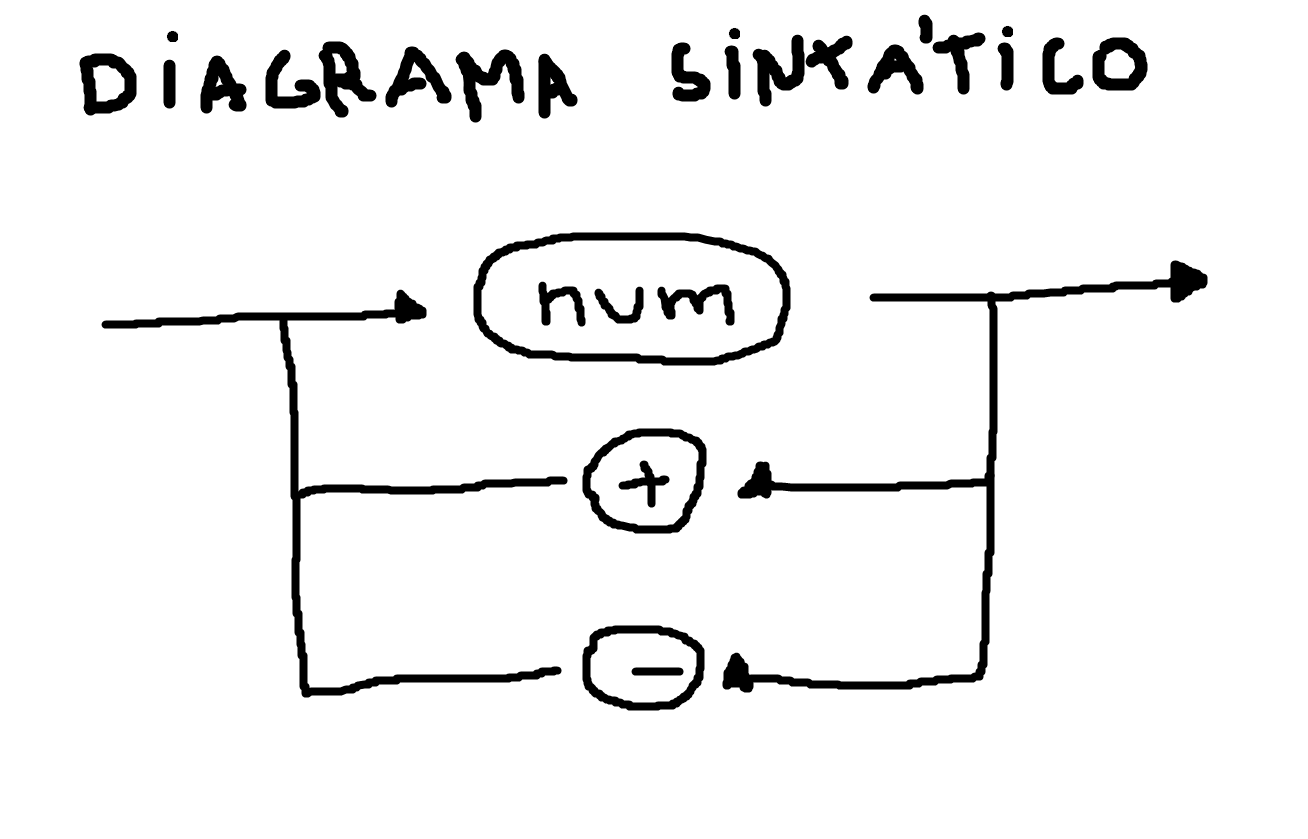
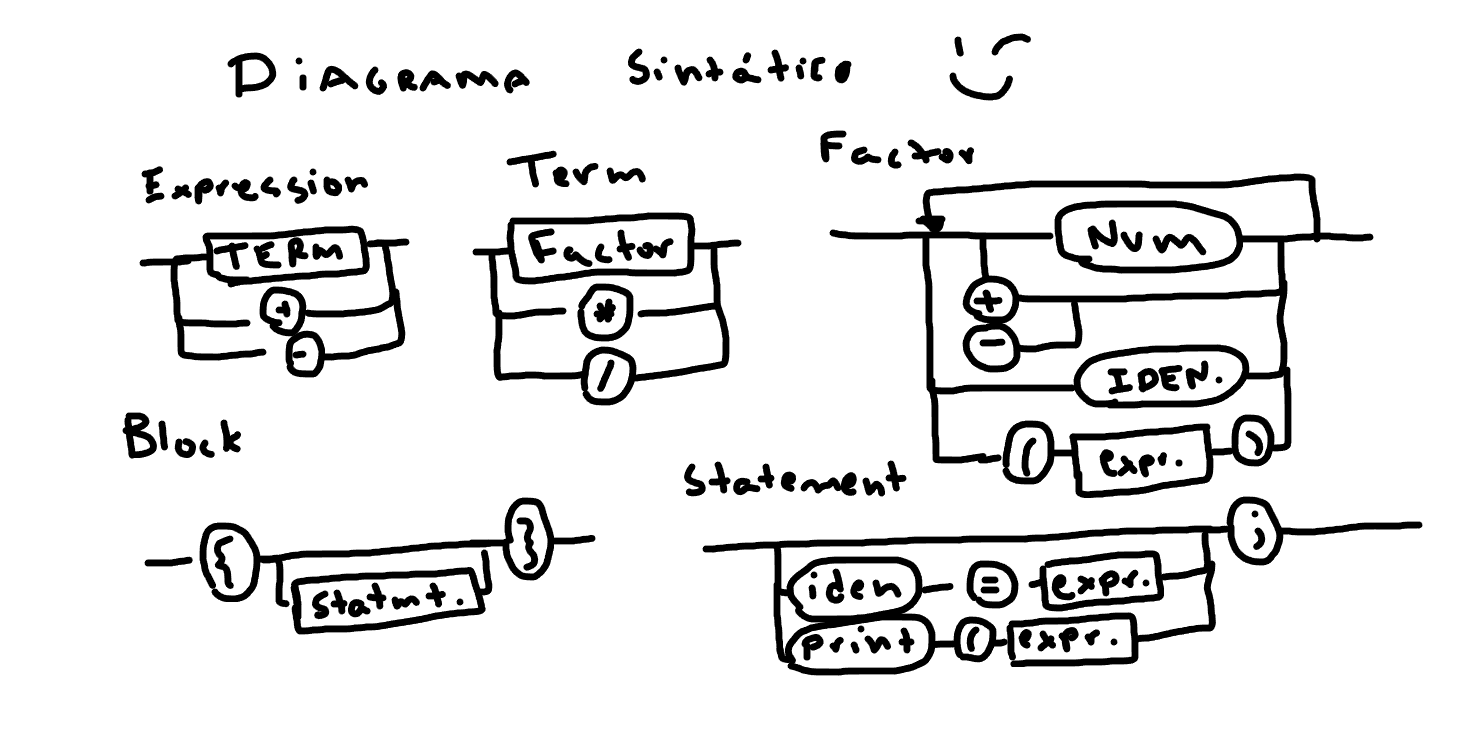
2.1.0

diff --git a/Parser.py b/Parser.py
@@ -14,9 +14,9 @@ class Parser:
         node = None
         
         if token.value == "+":
-            node = UnOp([self.parseFactor()], "+")
+            node = UnOp([self.parseFactor()], token)
         if token.value == "-":
-            node = UnOp([self.parseFactor()], "-")
+            node = UnOp([self.parseFactor()], token)
 
         if token.value == "(":
             node = Node([self.parseExpression()], None)
@@ -26,23 +26,26 @@ class Parser:
                 self.tokenizer.selectNext()
 
         if node == None:
-            return IntVal(int(token.value))
+            if token.value.isnumeric():
+                token.value = int(token.value) # arrumar isso dps, colocar int no Node.Evaluate()
+
+            return IntVal(token)
         return node
 
     def parseTerm(self):
         node = self.parseFactor()
 
         while self.tokenizer.next.type == "operator" and self.tokenizer.next.value in ["*", "/"]:
-            op = self.tokenizer.next.value
+            op = self.tokenizer.next
             self.tokenizer.selectNext()
             right = self.parseFactor()
 
-            if op == "*":
-                node = BinOp([node, right], "*")
-            elif op == "/":
+            if op.value == "*":
+                node = BinOp([node, right], op)
+            elif op.value == "/":
                 if right.value == 0:
                     raise ZeroDivisionError("Division by zero")
-                node = BinOp([node, right], "/")
+                node = BinOp([node, right], op)
 
         return node
 
@@ -50,23 +53,65 @@ class Parser:
         node = self.parseTerm()
 
         while self.tokenizer.next.type == "operator" and self.tokenizer.next.value in ["+", "-"]:
-            op = self.tokenizer.next.value
+            op = self.tokenizer.next
             self.tokenizer.selectNext()
             right = self.parseTerm()
 
-            if op == "+":
-                node = BinOp([node, right], "+")
-            elif op == "-":
-                node = BinOp([node, right], "-")
+            if op.value == "+":
+                node = BinOp([node, right], op)
+            elif op.value == "-":
+                node = BinOp([node, right], op)
 
         return node
+    
+    def parseStatement(self, symbolTable):
 
-    def run(self, code):
+        token = self.tokenizer.next
+        if token.type == "identifier":
+            self.tokenizer.selectNext()
+            if self.tokenizer.next.type == "equals":
+                self.tokenizer.selectNext()
+                expression = Node([self.parseExpression()], None)
+                symbolTable.setSymbol(token.value, expression.Evaluate(symbolTable))
+            else:
+                raise SyntaxError("Set identifier like IDENTIFIER = VALUE")
+            
+        if token.type == "print":
+            self.tokenizer.selectNext()
+            if self.tokenizer.next.type != "openPrio":
+                raise SyntaxError("Unproper use of print, proper: print(<expression>)")
+            self.tokenizer.selectNext()
+            expression = Node([self.parseExpression()], None)
+            if self.tokenizer.next.type != "closePrio":
+                raise SyntaxError("Unproper use of print, proper: print(<expression>)")
+            print(expression.Evaluate(symbolTable))
+            self.tokenizer.selectNext()
+        
+        if self.tokenizer.next.type != "endStatement":
+            raise SyntaxError("Unclosed statement")
+        return
+
+    def parseBlock(self, symbolTable):
+        token = self.tokenizer.next
+        if token.type != "openBlock":
+            raise SyntaxError('Start block with "{"')
+        
+        self.tokenizer.selectNext()
+        while self.tokenizer.next.type != "closeBlock":
+            if self.tokenizer.next.value == "eof":
+                raise SyntaxError("Unclosed block")
+            self.parseStatement(symbolTable)
+            self.tokenizer.selectNext()
+        self.tokenizer.selectNext()
+        return
+
+
+    def run(self, code, symbolTable):
         self.tokenizer = Tokenizer(code)
         self.tokenizer.selectNext()
-        mainNode = Node([self.parseExpression()],None)
+        self.parseBlock(symbolTable)
 
         if self.tokenizer.next.type != "eof":
             raise Exception("Unexpected end of input")
 
-        return mainNode
+        return

diff --git a/Node.py b/Node.py
@@ -6,9 +6,14 @@ class Node():
         self.value = value
         return
     
-    def Evaluate(self):
+    def Evaluate(self, symbolTable):
+        if self.value != None:
+            if self.value.type == "identifier":
+                self.value.value = symbolTable.getSymbol(self.value.value)
+                self.value.type = "postIdentifier"
+
         for i in range(len(self.children)):
-            self.children[i] = self.children[i].Evaluate()
+            self.children[i] = self.children[i].Evaluate(symbolTable)
 
         if len(self.children) != 1:
             return "erro"
@@ -25,15 +30,15 @@ class BinOp(Node):
             raise ValueError("BinOp contains two children")
         return
         
-    def Evaluate(self):
-        super().Evaluate()
-        if self.value == "-":
+    def Evaluate(self, symbolTable):
+        super().Evaluate(symbolTable)
+        if self.value.value == "-":
             return self.children[0] - self.children[1]
-        if self.value == "+":
+        if self.value.value == "+":
             return self.children[0] + self.children[1]
-        if self.value == "*":
+        if self.value.value == "*":
             return self.children[0] * self.children[1]
-        if self.value == "/":
+        if self.value.value == "/":
             return self.children[0] // self.children[1]
         raise ValueError("Invalid BinOp value")
 
@@ -45,11 +50,11 @@ class UnOp(Node):
             raise ValueError("UnOp contains one children")
         return
     
-    def Evaluate(self):
-        super().Evaluate()
-        if self.value == "-":
+    def Evaluate(self, symbolTable):
+        super().Evaluate(symbolTable)
+        if self.value.value == "-":
             return -(self.children[0])
-        if self.value == "+":
+        if self.value.value == "+":
             return self.children[0]
         raise ValueError("Invalid UnOp value")
             
@@ -57,11 +62,11 @@ class IntVal(Node):
     def __init__(self, value):
         super().__init__([], value)
     
-    def Evaluate(self):
-        super().Evaluate()
+    def Evaluate(self, symbolTable):
+        super().Evaluate(symbolTable)
 
-        if isinstance(self.value, int):
-            return self.value
+        if isinstance(self.value.value, int):
+            return self.value.value
         else:
             raise ValueError("IntVal value must be an integer")
         
@@ -69,10 +74,10 @@ class NoOp(Node):
     def __init__(self, value):
         super().__init__([], value)
 
-    def Evaluate(self):
-        super().Evaluate()
+    def Evaluate(self, symbolTable):
+        super().Evaluate(symbolTable)
 
-        return self.value
+        return self.value.value
 
             
 # number1 = IntVal(1)

diff --git a/Tokenizer.py b/Tokenizer.py
@@ -65,6 +65,56 @@ class Tokenizer():
             self.position += 1
             return
         
+        if c_char == "{":
+            newToken.type = "openBlock"
+            newToken.value = c_char
+            self.next = newToken
+            self.position += 1
+            return
+        
+        if c_char == "}":
+            newToken.type = "closeBlock"
+            newToken.value = c_char
+            self.next = newToken
+            self.position += 1
+            return
+        
+
+        if c_char.isalpha() or c_char == "_":
+            newToken.type = "identifier"
+            newToken.value = ""
+            while c_char.isalnum() or c_char == "_":
+                newToken.value += c_char
+                self.position += 1
+                if self.position >= len(self.source):
+                    self.next = newToken
+                    return
+                c_char = self.source[self.position]
+                if not (c_char.isalnum() or c_char == '_'):
+                    if newToken.value == "print":
+                        newToken.type = "print"
+                    self.next = newToken
+                    return
+            
+        if c_char == "=":
+            newToken.type = "equals"
+            newToken.value = c_char
+            self.next = newToken
+            self.position += 1
+            return
+        
+        if c_char == ";":
+            newToken.type = "endStatement"
+            newToken.value = c_char
+            self.next = newToken
+            self.position += 1
+            return
+        
         self.position += 1        
         self.selectNext()
 
+
+# tkn = Tokenizer("teste 3 + 2 testando1 print {};")
+# for i in range(20):
+#     print(tkn.next.type)
+#     tkn.selectNext()

diff --git a/main.py b/main.py
@@ -1,10 +1,11 @@
 import sys
 from Parser import Parser
 from utils import print_tree
+from SymbolTable import SymbolTable
 
 if __name__ == "__main__":
     # input = sys.argv[1]
-    # input = "3+6/3   *  2 -+-  +  2*4/2 + 0/1 -((6+ 4)/(2)) // Teste // Teste 2"
+    # input = "{x1 = 3; y2 = 4; z_final = x1 + y2; print(z_final);}"
 
     filename = sys.argv[1]
 
@@ -17,8 +18,7 @@ if __name__ == "__main__":
         print(f"Erro ao abrir o arquivo: {e}")
 
     parser = Parser()
-    mainNode = parser.run(input)
+    symbolTable = SymbolTable()
 
-    # print_tree(mainNode)
+    parser.run(input, symbolTable)
 
-    print(mainNode.Evaluate())

diff --git a/constants.py b/constants.py
@@ -1,5 +1,10 @@
+import re
+
 numbers = [str(n) for n in range(10)]
-VOCABULARY = [" ","\n","+","-","*","/","(",")"] + numbers
+alphabet = "ABCDEFGHIJKLMNOPQRSTUVWXYZ";
+ALPHAS = [alpha for alpha in (alphabet + alphabet.lower())];
+
+VOCABULARY = [" ","\n","+","-","*","/","(",")", "{", "}","=","_",";"] + numbers + ALPHAS
 
 SEQUENCE = {
     "number": ["operator", "eof"],

diff --git a/SymbolTable.py b/SymbolTable.py
@@ -1,0 +1,9 @@
+class SymbolTable():
+    symbols = {}
+
+    def setSymbol(self, key, value):
+        self.symbols[key] = value
+        return
+    
+    def getSymbol(self, key):
+        return self.symbols[key]
